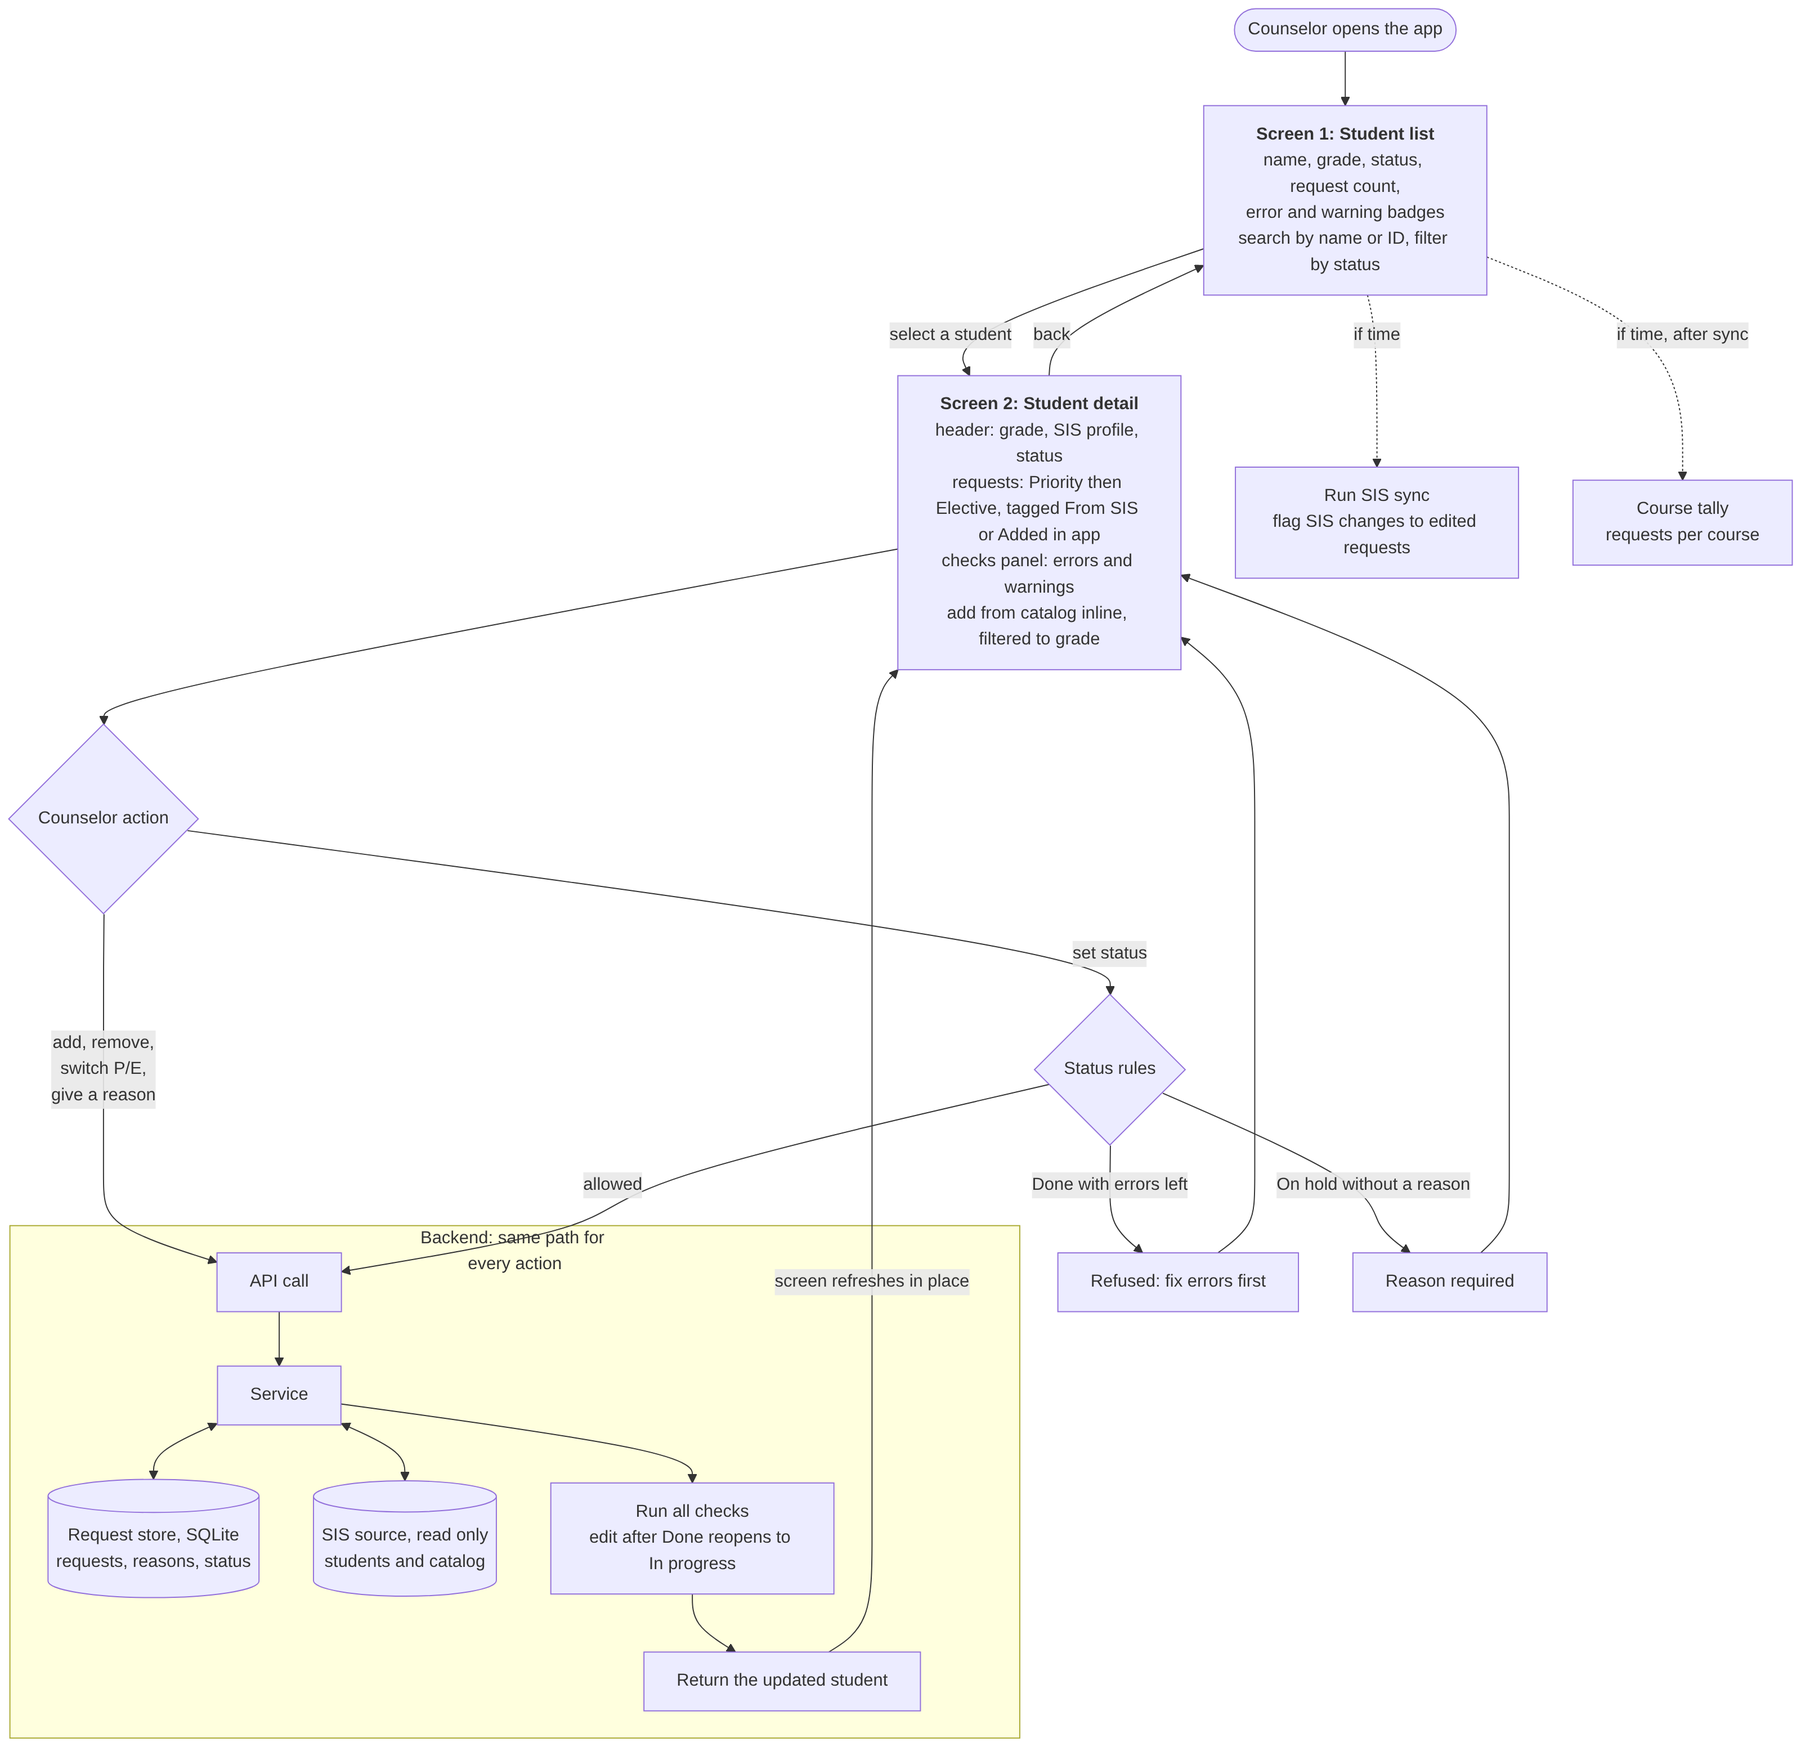
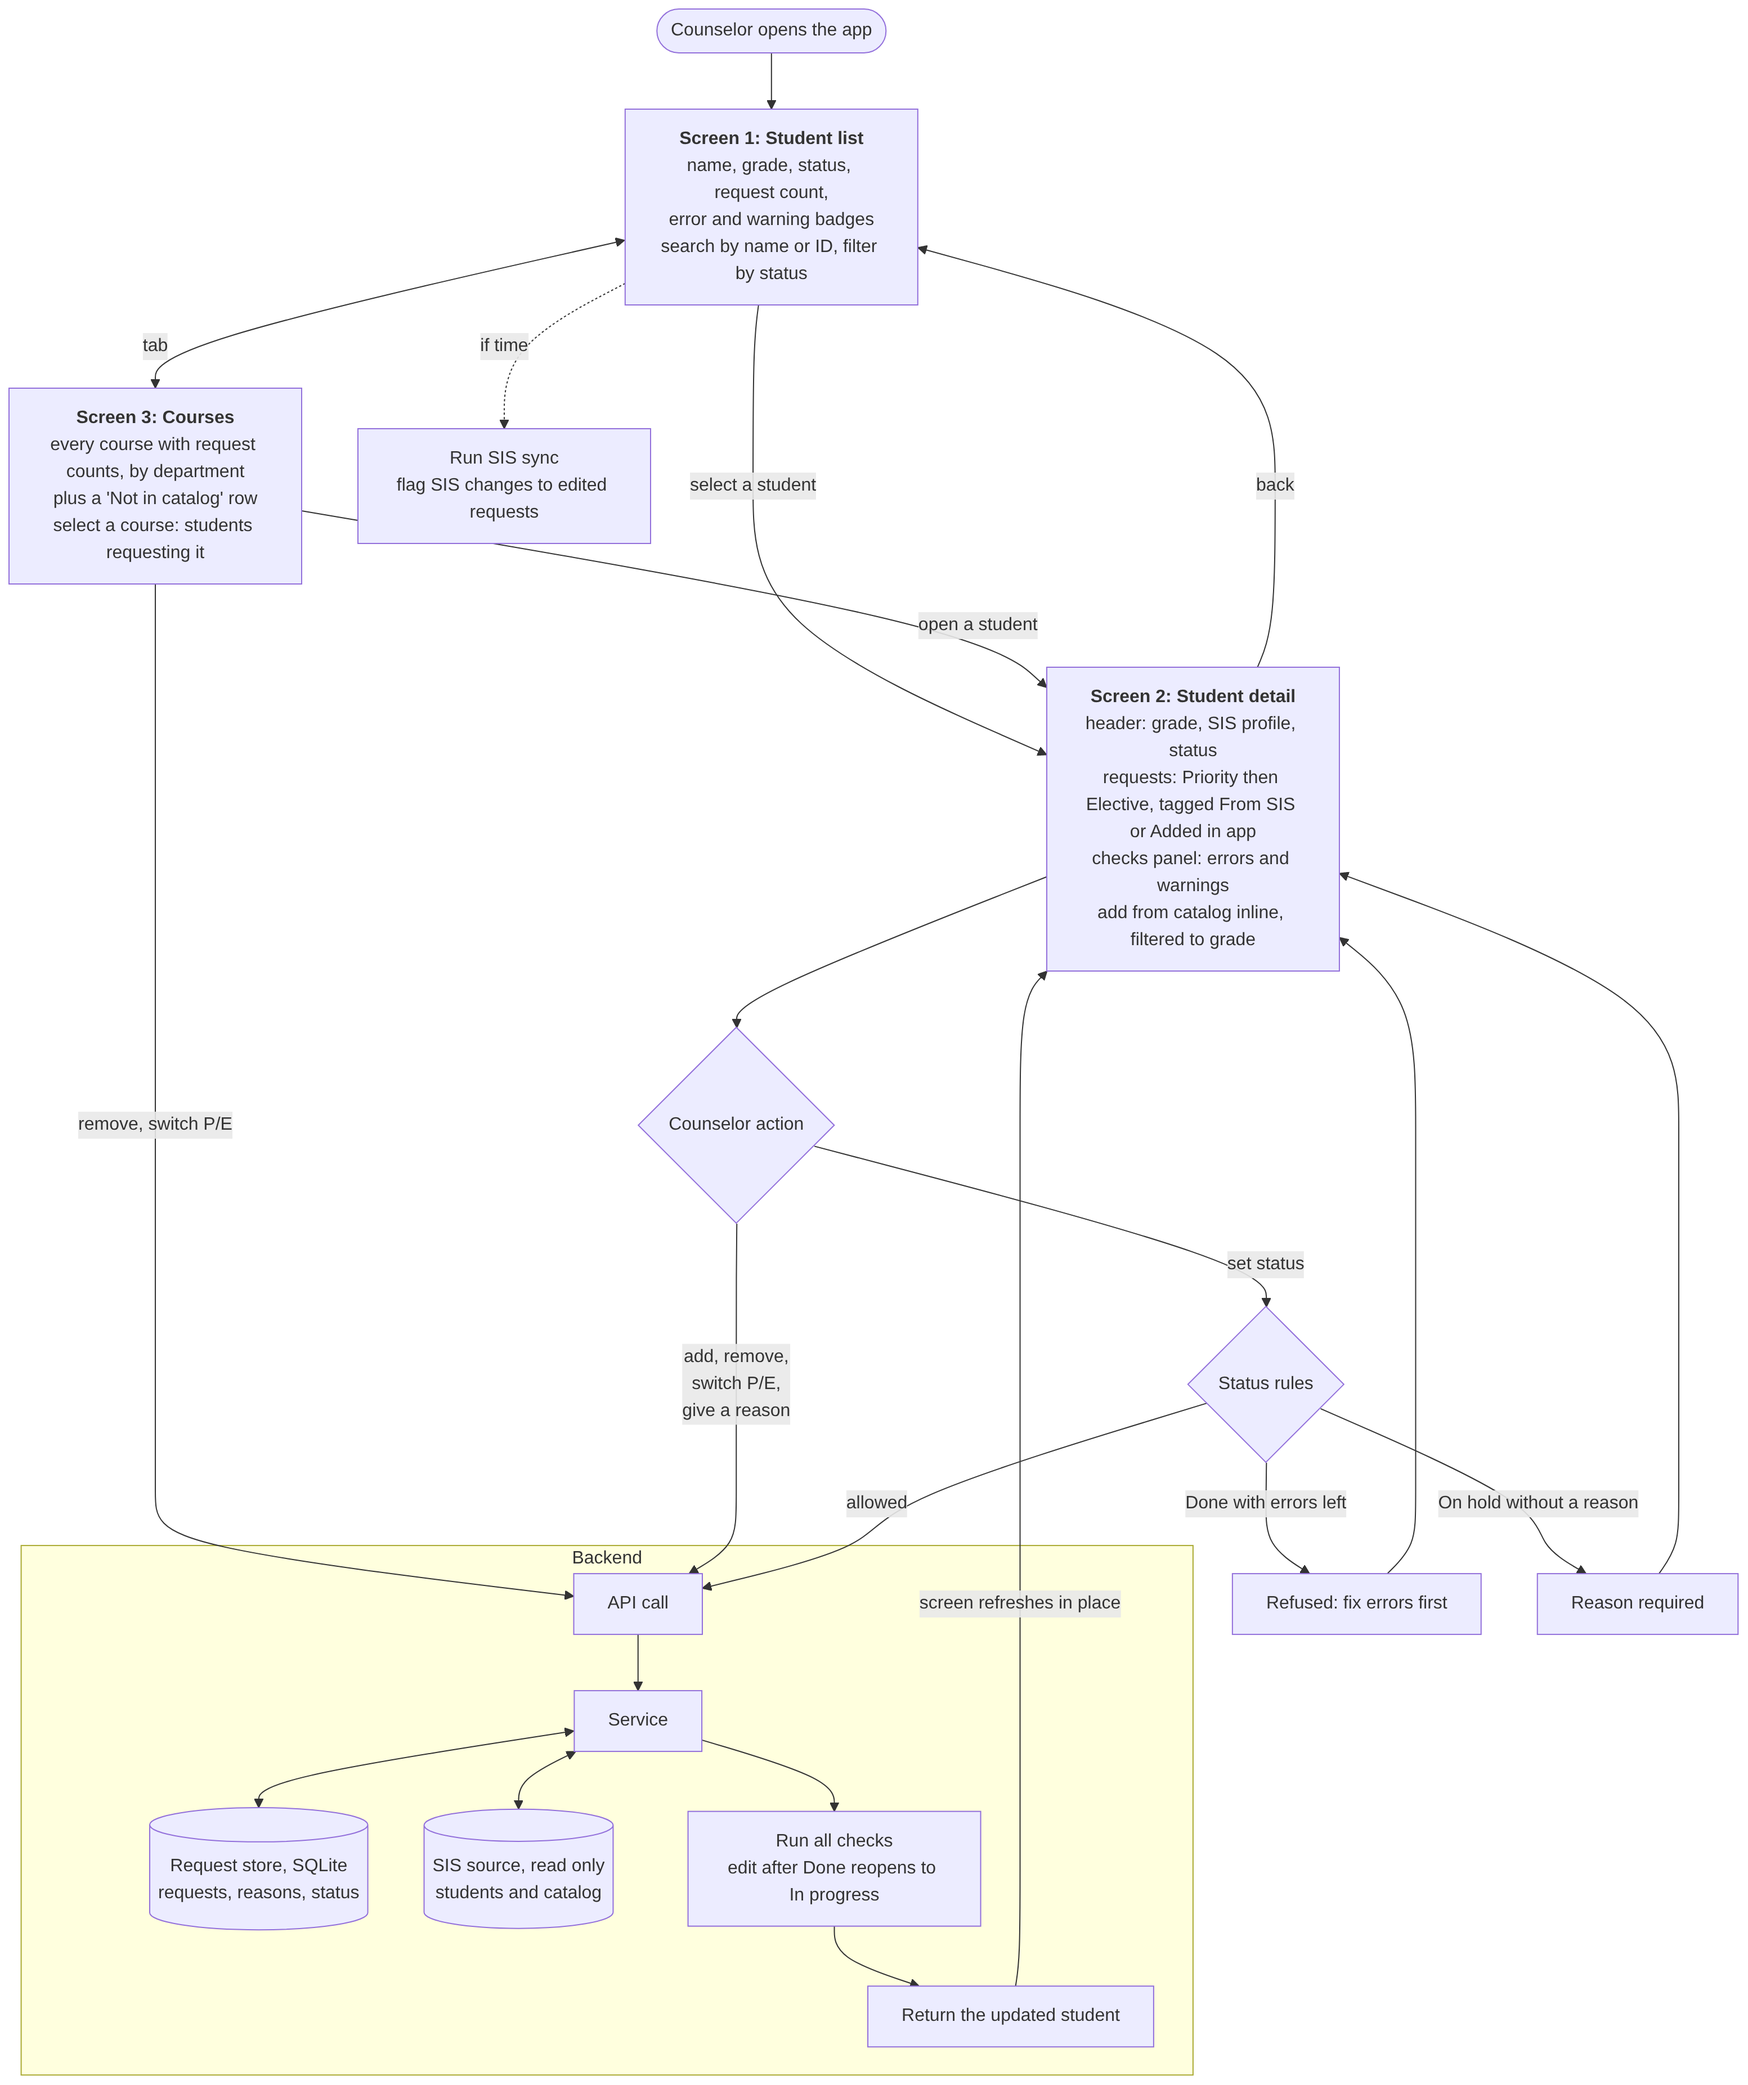
Q12: Courses screen for fixing requests from the course side
Claude-Session: https://claude.ai/code/session_016PjUpiGqPffv7nvHWyLZM3

diff --git a/docs/architecture/app-flow.md b/docs/architecture/app-flow.md
@@ -18,6 +18,11 @@ flowchart TD
 
     LIST["<b>Screen 1: Student list</b><br/>name, grade, status, request count,<br/>error and warning badges<br/>search by name or ID, filter by status"]
     LIST -->|select a student| DETAIL
+    LIST <-->|tab| COURSES
+
+    COURSES["<b>Screen 3: Courses</b><br/>every course with request counts, by department<br/>plus a 'Not in catalog' row<br/>select a course: students requesting it"]
+    COURSES -->|remove, switch P/E| API
+    COURSES -->|open a student| DETAIL
 
     DETAIL["<b>Screen 2: Student detail</b><br/>header: grade, SIS profile, status<br/>requests: Priority then Elective, tagged From SIS or Added in app<br/>checks panel: errors and warnings<br/>add from catalog inline, filtered to grade"]
 
@@ -30,7 +35,7 @@ flowchart TD
     BLOCK --> DETAIL
     REASON --> DETAIL
 
-    subgraph BACKEND [Backend: same path for every action]
+    subgraph BACKEND [Backend]
         API[API call] --> SVC[Service]
         SVC <--> STORE[(Request store, SQLite<br/>requests, reasons, status)]
         SVC <--> SIS[(SIS source, read only<br/>students and catalog)]
@@ -42,12 +47,11 @@ flowchart TD
     DETAIL -->|back| LIST
 
     LIST -.->|if time| SYNC[Run SIS sync<br/>flag SIS changes to edited requests]
-    LIST -.->|if time, after sync| TALLY[Course tally<br/>requests per course]
 ```
 
 ## Notes
 
-- Two screens carry the whole MVP. The catalog picker sits inside the detail screen so a counselor never leaves the student mid-meeting (planning-meeting.md, raised item 6).
+- Three screens carry the MVP: student list, student detail, and courses ([Q12](../decisions/q012-course-view.md)). The catalog picker sits inside the detail screen so a counselor never leaves the student mid-meeting (planning-meeting.md, raised item 6).
 - Every action makes one API call and gets the whole updated student back, so checks and status are always computed in one place: the backend ([overview.md](overview.md) section 7).
 - Status rules: Done is refused while errors remain ([Q5](../decisions/q005-bad-sis-request-data.md)); On hold needs a reason; editing a Done student reopens it ([Q3](../decisions/q003-student-review-status.md)).
-- Dashed paths are the "if time" items, in build order: sync demo, then tally ([Q9](../decisions/q009-sis-sync-demo.md)).
+- The dashed path is the "if time" item, the SIS sync demo ([Q9](../decisions/q009-sis-sync-demo.md)). The course view replaced the tally (Q12).

diff --git a/docs/requirements/requirements.md b/docs/requirements/requirements.md
@@ -71,7 +71,7 @@ Scope decided in [Q6](../decisions/q006-timebox-and-mvp-scope.md).
 | M3 | Per-student review status (not started / in progress / done / on hold) and a caseload filter | Turns the list into a work queue; covers S010 "on hold" | Low | In ([Q3](../decisions/q003-student-review-status.md)) |
 | M4 | Request source: from SIS vs added in app | Needed for any safe SIS sync; links the prototype to the design doc | Low | In (data only, small UI cue); sync rule in [Q2](../decisions/q002-request-ownership.md) |
 | M5 | Notes on a student or request | Captures why (retake, early AP) | Low | Maybe: fold into M2's reason |
-| M6 | Course demand tally across students | Shows how requests feed scheduling | Low | If time, after the sync demo ([Q9](../decisions/q009-sis-sync-demo.md)) |
+| M6 | Course view: request counts per course, fix requests from the course side | Shows how requests feed scheduling; finds bad codes in one place | Low-medium | In, core build ([Q12](../decisions/q012-course-view.md)) |
 | M7 | Change history / audit | Several staff edit the same list | Medium | Out; mention as next |
 | M8 | Prerequisite checks | S006 asks for it | High: needs transcript data we don't have | Out; explain why |
 | M9 | Schedule conflict detection | S009 asks for it | High: needs sections and periods | Out; this is the scheduler's job, explain why |
@@ -88,7 +88,7 @@ Scope decided in [Q6](../decisions/q006-timebox-and-mvp-scope.md).
 
 1. **Timebox:** 2 hours prototype, 1 hour SIS design, AI-accelerated ([Q6](../decisions/q006-timebox-and-mvp-scope.md)).
 2. **Validation:** judgment calls warn and are kept with a reason ([Q1](../decisions/q001-out-of-grade-courses.md)); data errors block only Done ([Q5](../decisions/q005-bad-sis-request-data.md)).
-3. **MVP scope:** M1-M4 in, M5 folded into M2, M6 if time, M7-M10 out ([Q6](../decisions/q006-timebox-and-mvp-scope.md)).
+3. **MVP scope:** M1-M4 in, M5 folded into M2, M6 in as the course view ([Q12](../decisions/q012-course-view.md)), M7-M10 out ([Q6](../decisions/q006-timebox-and-mvp-scope.md)).
 4. **AP role:** same screen; status filter covers oversight; sign-off deferred ([Q3](../decisions/q003-student-review-status.md)).
 5. **Complex students:** all handled through warnings and errors ([Q6](../decisions/q006-timebox-and-mvp-scope.md)).
 6. **SIS design format:** Markdown in the repo to start ([Q10](../decisions/q010-sis-design-format.md)).

diff --git a/docs/decisions/q012-course-view.md b/docs/decisions/q012-course-view.md
@@ -1,0 +1,35 @@
+---
+id: q012-course-view
+title: Course view for fixing requests
+status: current
+amends: Q6 (M6 moves into the core build), Q9 (build order)
+decided: 2026-10-26, by Stephen
+---
+
+<a id="q012"></a>
+# Q12: What should a course list screen let a counselor correct?
+
+## Context
+
+Looking at the [application flow](../architecture/app-flow.md), Stephen noted the only way in was student by student: "there should be a way to see the list of courses and make corrections there if something is off." The catalog itself is SIS-owned and read-only (exercise, SIS section), so "corrections" could mean fixing requests from the course side, or editing the catalog.
+
+## Options
+
+| Option | Tradeoffs |
+|---|---|
+| A. Course view, fix requests | Course-side fixing; catalog stays read-only; finds bad codes in one place |
+| B. A + "report a catalog problem" note | Shows the SIS boundary; a feature nobody acts on in the prototype |
+| C. Editable catalog | Breaks the read-only rule; the next sync overwrites edits |
+| D. Keep the read-only tally, if time | No change |
+
+## Resolution
+
+**A.** Screen 3, **Courses**: every catalog course with its request count (priority and elective), grouped by department, plus a **"Not in catalog"** row collecting requests whose code doesn't exist (Aisha's SS303). Selecting a course lists the students requesting it, with type and any check on that request; from there the counselor can remove a request, switch P/E, or open the student. The catalog is never edited.
+
+This replaces the course tally (M6) and moves it into the core build, ahead of the SIS sync demo, which stays "if time" ([Q9](q009-sis-sync-demo.md)). Estimated extra cost: 20-30 minutes. All edits go through the same backend path as the student screen, so checks and status rules apply identically (e.g. removing a request from a Done student reopens it, [Q3](q003-student-review-status.md)).
+
+## Impacts (all updated in the same change)
+
+- [x] Architecture: `architecture/overview.md` (screens), `architecture/app-flow.md` (diagram and image)
+- [x] Requirements: `requirements/requirements.md` (M6, question 3)
+- [x] Decisions index row

diff --git a/docs/architecture/overview.md b/docs/architecture/overview.md
@@ -61,7 +61,7 @@ Adding a rule = one function + its tests. That is the "generalize" story: gradua
 
 1. **Student list:** name, grade, status, request count, error/warning counts, profile flag; filter by status; search by name.
 2. **Student detail:** profile, requests grouped Priority then Elective, each with source and any issue; add from catalog (filtered to the student's grade, with "show all"); remove; switch P/E; give a reason; set status.
-3. **Course tally** (only if time, M6).
+3. **Courses** ([Q12](../decisions/q012-course-view.md)): every course with request counts by department, plus a "Not in catalog" row; select a course to see who requested it and remove, switch P/E or open the student. Catalog stays read-only.
 
 ## 5. Testing strategy
 

diff --git a/docs/decisions/README.md b/docs/decisions/README.md
@@ -23,3 +23,4 @@ One file per decision (`q0NN-<slug>.md`, template in `.claude/process-kit/templa
 | [Q9](q009-sis-sync-demo.md) | SIS sync demo only if time: counselor flow first, then sync demo, then tally | current | 2026-10-25, Stephen |
 | [Q10](q010-sis-design-format.md) | SIS design is Markdown in the repo to start; PDF later if wanted | current | 2026-10-25, Stephen |
 | [Q11](q011-student-preferences.md) | Both: students may arrive with picks (via the SIS) or choose live; one screen | current | 2026-10-25, Stephen |
+| [Q12](q012-course-view.md) | Courses screen: request counts per course, Not-in-catalog row, fix requests from the course side; catalog stays read-only | current | 2026-10-26, Stephen |
